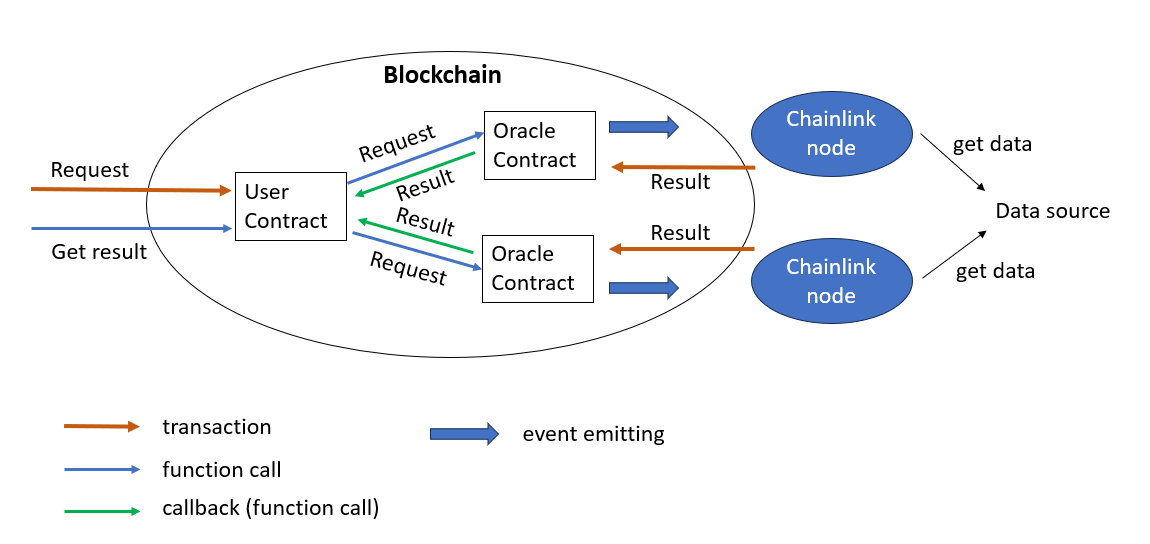
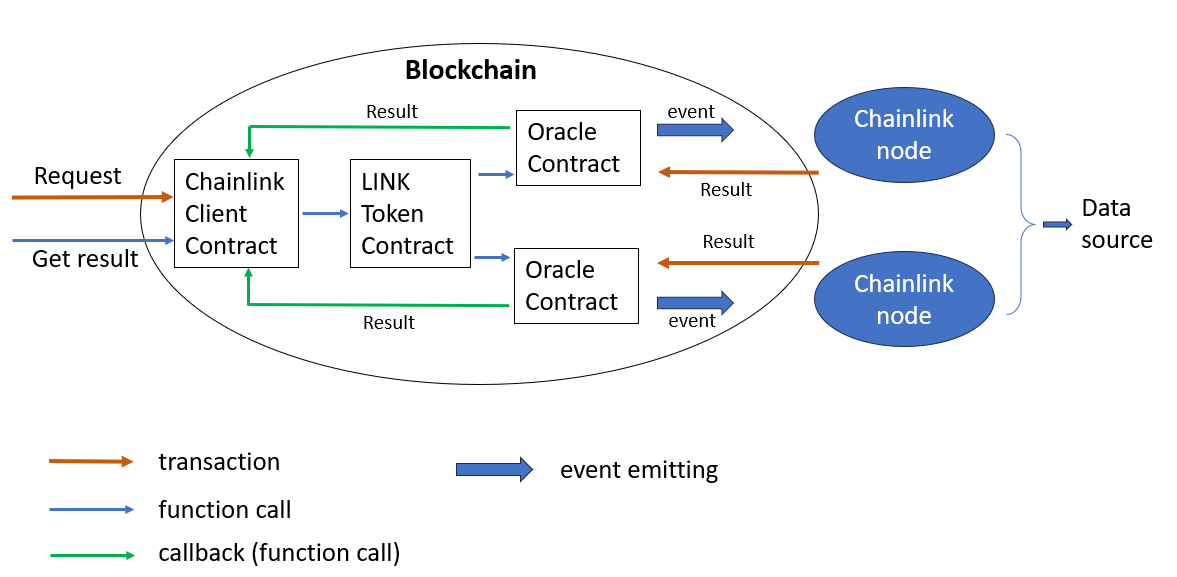
minor readme change

diff --git a/seedemu/services/ChainlinkService/ChainlinkTemplates/contracts/README.md b/seedemu/services/ChainlinkService/ChainlinkTemplates/contracts/README.md
@@ -52,7 +52,7 @@ This diagream illustrates the process flow for interacting with Chainlink oracle
 
     bytes32 requestId = sendChainlinkRequestTo(oracles[i].oracle, request, ORACLE_PAYMENT);
   ```
-2. **Sending Request to Oracle**: After constructing the request, `User Contract` uses the inherited `sendChainlinkRequestTo` function to send the request directly to the Operator/Oracle contract. This function leverages the LINK token's `transferAndCall` functionality to send the request and payment in a single transaction, ensuring that the oracle is compensated for its services.
+2. **Sending Request to Oracle**: After constructing the request, User Contract uses the inherited `sendChainlinkRequestTo` function to send the request to the LINK token contract, which forwards the request to the `Operator/Oracle` contract. This function leverages the LINK token's `transferAndCall` functionality to send the request and payment in a single transaction, ensuring that the oracle is compensated for its services.
   ```python
     s_link.transferAndCall(oracleAddress, payment, encodedRequest)
   ```
